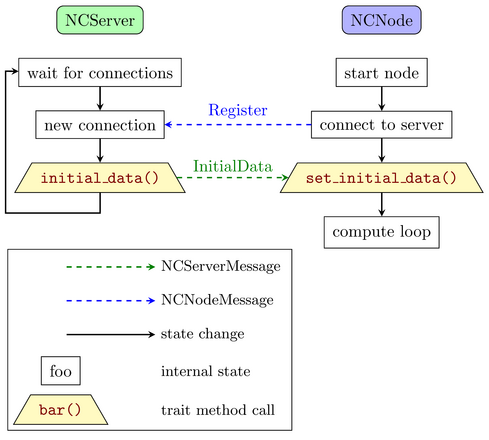
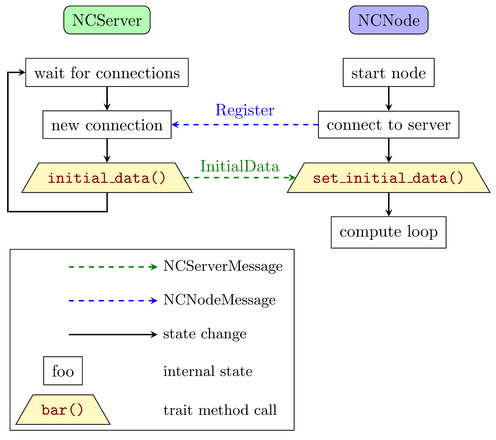
Refactor edge to waiting node

diff --git a/diagrams/01_start.tex b/diagrams/01_start.tex
@@ -43,15 +43,19 @@
     \draw [node_message] (connect) -- node [above] {Register} (connected);
     \draw [server_message] (initial) -- node [above] {InitialData} (set_initial);
 
-    \draw [action_step] (initial) -- node {} ++(0, -0.75) -- node {} ++(-2, 0) -- node {} ++(0, 3) -- (wait);
+    % \draw [action_step] (initial) -- node {} ++(0, -0.75) -- node {} ++(-2, 0) -- node {} ++(0, 3) -- (wait);
+    \draw [action_step] (initial.south) |- ++(-2.1, -0.4) |- (wait.west);
 
 
     % Add bottom page border with invisible node
     \node at (0, -6.5) {};
 
+    % Add left page border with invisible node
+    \node at (-5.3, 0) {};
+
     \matrix [column sep=10mm, row sep=2.0mm, rectangle, draw=black,
              column 2/.style={anchor=west}
-        ] at (-2.1, -4.5) {
+        ] at (-2.2, -4.5) {
         \node (label1a) {}; & \node [font=\small] (label1b) {NCServerMessage}; \\
         \node (label2a) {}; & \node [font=\small] (label2b) {NCNodeMessage}; \\
         \node (label3a) {}; & \node [font=\small] (label3b) {state change}; \\
